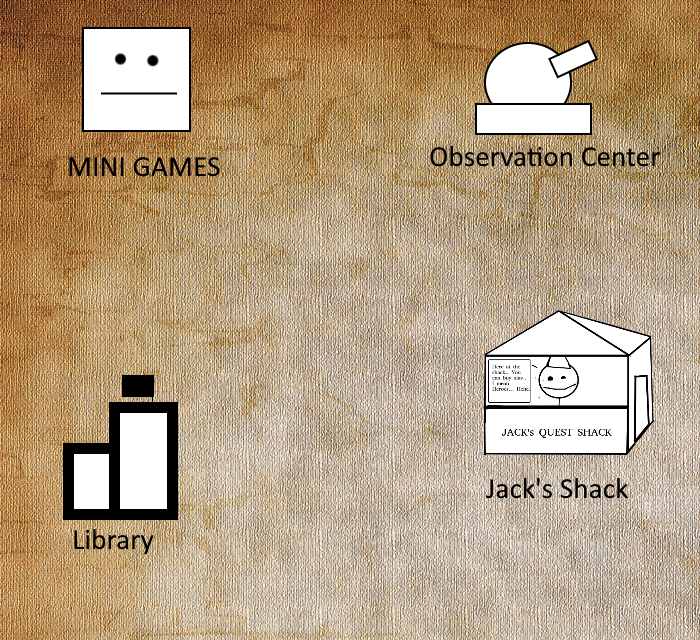
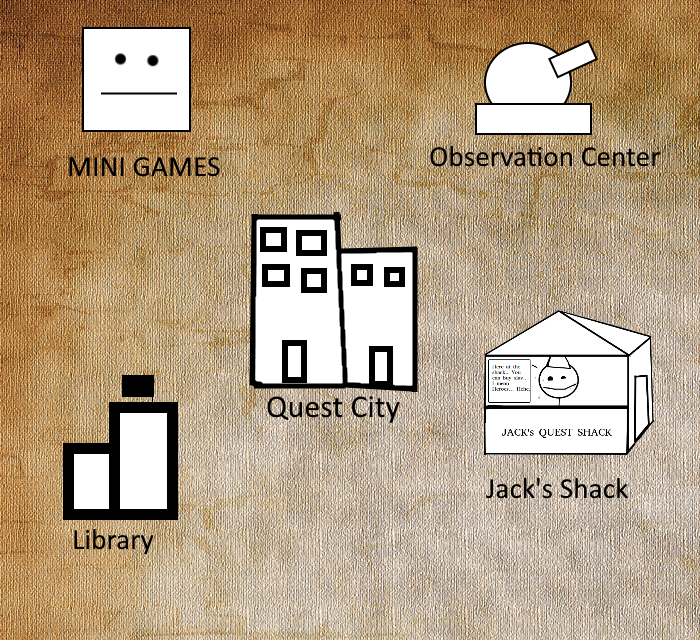
city

Changed region(s): [[0.33, 0.3125, 0.6, 0.6562]]

diff --git a/questgrinders.html b/questgrinders.html
@@ -518,15 +518,16 @@
 
   {{>dash}}
   <p align="center">
-    <img id="map" src="map.png" border="0" width="700" height="640" orgWidth="700" orgHeight="640" usemap="#image-maps-2016-01-13-172911" alt="" />
-    <map name="image-maps-2016-01-13-172911" id="ImageMapsCom-image-maps-2016-01-13-172911">
-      <area alt="" title="MiniGames" href="http://questgrinders.herokuapp.com/minigames" shape="rect" coords="58,8,226,187" style="outline:none;" target="_self" />
-      <area shape="rect" coords="698,638,700,640" alt="Image Map" style="outline:none;" title="Image Map" href="http://www.image-maps.com/index.php?aff=mapped_users_0" />
-      <area alt="" title="" href="http://questgrinders.herokuapp.com/moon" shape="poly" coords="468,124,471,75,511,33,551,32,592,36,604,61,615,106,621,124,623,142,682,158,663,176,420,171,419,154,450,143,464,135,474,140" style="outline:none;" target="_self"
-      />
-      <area alt="" title="" href="http://gq.thecomicseries.com/" shape="poly" coords="65,437,103,440,103,398,109,370,151,367,182,377,184,393,188,414,196,459,190,494,188,521,167,550,74,563,45,536,52,455" style="outline:none;" target="_self" />
-      <area alt="" title="" href="http://questgrinders.herokuapp.com/store" shape="poly" coords="480,350,559,299,652,328,659,473,634,509,488,512,477,510" style="outline:none;" target="_self" />
-    </map>
+<img id="Image-Maps-Com-image-maps-2016-01-17-150751" src="/map.png" border="0" width="700" height="640" orgWidth="700" orgHeight="640" usemap="#image-maps-2016-01-17-150751" alt="" />
+<map name="image-maps-2016-01-17-150751" id="ImageMapsCom-image-maps-2016-01-17-150751">
+  <area alt="" title="" href="/minigames" shape="rect" coords="70,23,221,186" style="outline:none;" target="_self" />
+  <area alt="" title="" href="/city" shape="rect" coords="246,208,424,426" style="outline:none;" target="_self" />
+  <area alt="" title="" href="/lib" shape="rect" coords="41,369,208,559" style="outline:none;" target="_self" />
+  <area shape="rect" coords="698,638,700,640" alt="Image Map" style="outline:none;" title="Image Map" href="http://www.image-maps.com/index.php?aff=mapped_users_0" />
+  <area alt="" title="" href="/moon" shape="poly" coords="426,137,468,133,475,42,568,34,610,41,614,77,608,115,608,135,670,166,656,148,661,174,648,145,650,169,431,171" style="outline:none;" target="_self" />
+  <area alt="" title="" href="/store" shape="poly" coords="483,350,559,307,650,335,656,421,631,453,633,495,489,509,480,508,621,507,633,509,635,503,475,498,474,506,487,504,466,508" style="outline:none;" target="_self" />
+</map>
+
   </p>
 </template>
 
@@ -642,4 +643,49 @@
         <input type="password" name="loginPassword">
         <input type="submit" value="Login">
     </form>
+</template>
+
+
+
+<template name="lib">
+
+  {{>dash}}
+  <p align="center">
+
+    <img id="Image-Maps-Com-image-maps-2016-01-19-181059" src="/lib.png" border="0" width="800" height="600" orgWidth="800" orgHeight="600" usemap="#image-maps-2016-01-19-181059" alt="" />
+  <map name="image-maps-2016-01-19-181059" id="ImageMapsCom-image-maps-2016-01-19-181059">
+  <area  alt="help" title="help" href="/help" shape="rect" coords="519,322,752,571" style="outline:none;" target="_self"     />
+  <area shape="rect" coords="798,598,800,600" alt="Image Map" style="outline:none;" title="Image Map" href="http://www.image-maps.com/index.php?aff=mapped_users_0" />
+  <area  alt="Books" title="Books" href="/infopages" shape="poly" coords="13,72,16,458,335,372,318,32" style="outline:none;" target="_self"     />
+  <area  alt="Comics" title="Comics" href="http://gq.thecomicseries.com/" shape="poly" coords="498,8,326,31,342,368,498,324,510,327" style="outline:none;" target="_self"     />
+  </map>
+
+
+  </p>
+</template>
+
+<template name="city">
+
+  {{>dash}}
+  <p align="center">
+
+    <img id="Image-Maps-Com-image-maps-2016-01-19-181453" src="/city.png" border="0" width="800" height="600" orgWidth="800" orgHeight="600" usemap="#image-maps-2016-01-19-181453" alt="" />
+    <map name="image-maps-2016-01-19-181453" id="ImageMapsCom-image-maps-2016-01-19-181453">
+    <area  alt="" title="" href="/construction" shape="rect" coords="316,41,501,437" style="outline:none;" target="_self"     />
+    <area  alt="" title="" href="/construction" shape="rect" coords="65,317,213,432" style="outline:none;" target="_self"     />
+    <area  alt="" title="" href="/construction" shape="rect" coords="585,248,766,429" style="outline:none;" target="_self"     />
+    <area shape="rect" coords="798,598,800,600" alt="Image Map" style="outline:none;" title="Image Map" href="http://www.image-maps.com/index.php?aff=mapped_users_0" />
+    </map>
+  </p>
+
+</template>
+
+<template name="construct">
+  <p align="center">
+
+  <a href="/city"><img src="/construct.png"></a>
+</p>
+
+
+
 </template>

diff --git a/questgrinders.js b/questgrinders.js
@@ -15,6 +15,19 @@ if (Meteor.isClient) {
   }, {except: ['needlogin']});
 
 
+  Router.route('/city', function() {
+    this.render('city');
+  });
+
+  Router.route('/lib', function() {
+    this.render('lib');
+  });
+
+
+  Router.route('/construction', function() {
+    this.render('construct');
+  });
+
   Router.route('/infopages', function() {
     this.render('info');
   });
@@ -492,7 +505,7 @@ Meteor.methods({
       }, {
         $inc: {
           'mult': 1,
-          'wepcost': 100000000000,
+          'wepcost': 1000000000000,
           'money': (0 - amount),
         }
       });
@@ -508,7 +521,7 @@ Meteor.methods({
       }, {
         $inc: {
           'heropower': 1,
-          'hpowercost': 100000000000,
+          'hpowercost': 1000000000000,
           'money': (0 - amount),
         }
       });
